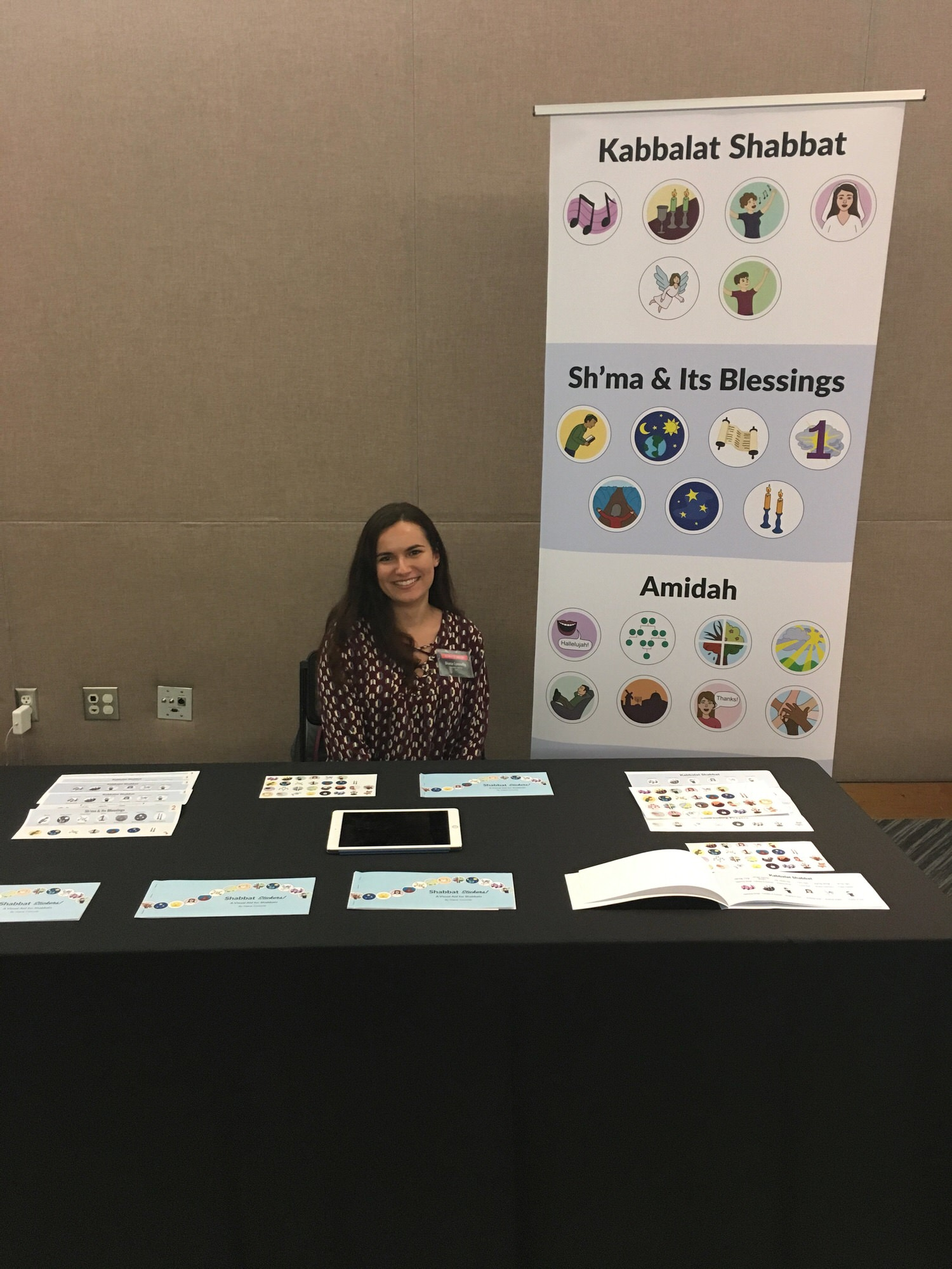
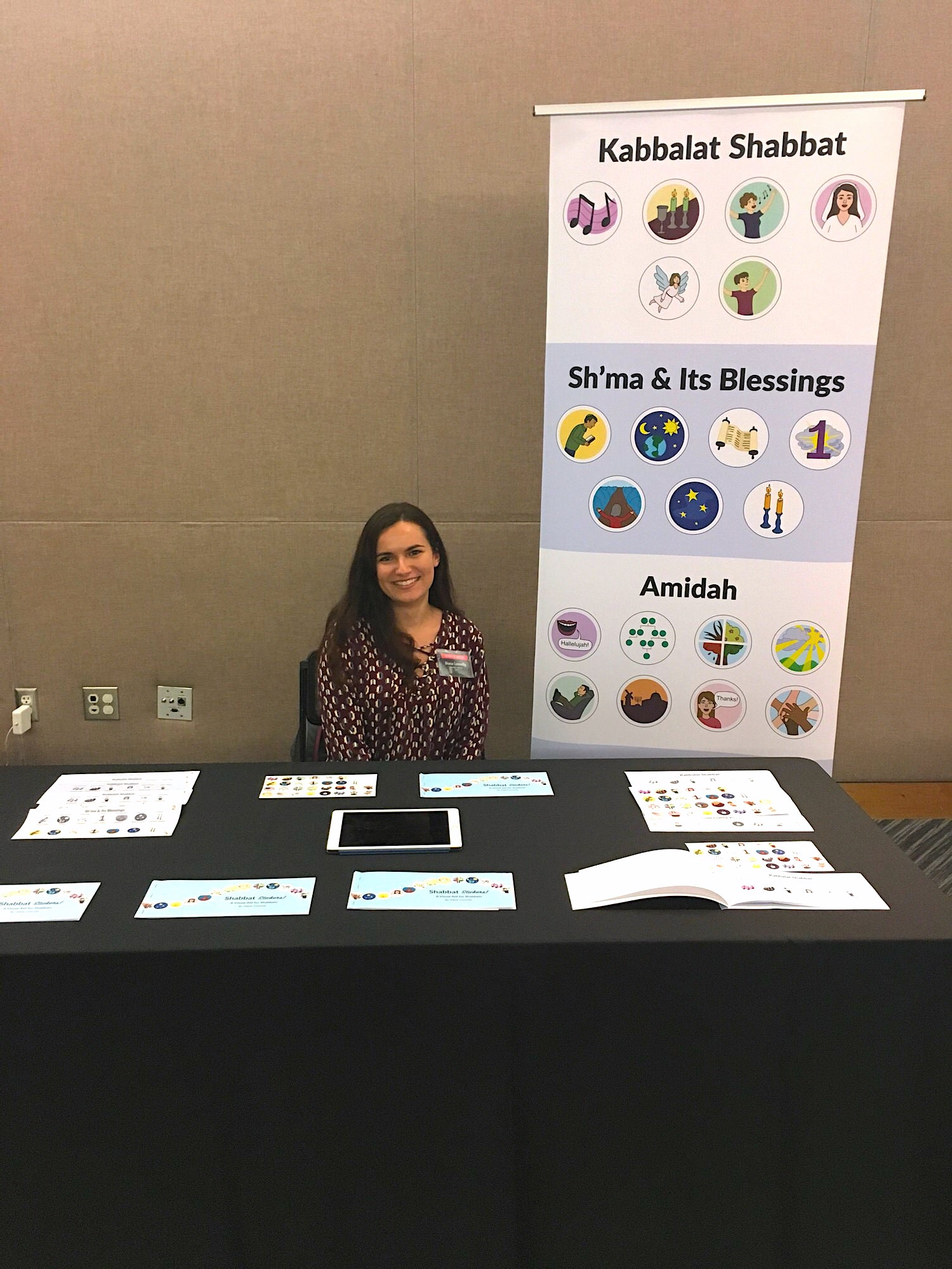
changed mps1 thumbnail

diff --git a/src/projects/projects.js b/src/projects/projects.js
@@ -489,73 +489,85 @@ export const projects = {
 //loops//
 
 	'dadMotorcycle': {
-		title: `Dad's Motorcycle`,
+		title: `"Dad's Motorcycle"`,
+		description: 'Adobe After Effects',
 		pic: `dadMotorcyclePurple.gif`,
 		page: dadMotorcycleGIF
 	},
 
 	'banana': {
-		title: `Healthy Food`,
+		title: `"Healthy Food"`,
+		description: 'Adobe After Effects',
 		pic: `banana.gif`,
 		page: jumoBanana
 	},
 
 	'heart': {
 		title: `Anatomical Valentine`,
+		description: 'Adobe After Effects',
 		pic: `heart.gif`,
 		page: anatomicalHeartGIF
 	},
 
 	'skulls': {
-		title: `I Have a Bone to Pick`,
+		title: `"I Have a Bone to Pick"`,
+		description: 'Adobe After Effects',
 		pic: `skulls-small.gif`,
 		page: expiiSkulls
 	},
 
 	'turkey': {
-		title: `Parading Around`,
+		title: `"Parading Around"`,
+		description: 'Adobe After Effects',
 		pic: `turkey-small.gif`,
 		page: expiiTurkey
 	},
 
 	'pumpkins': {
-		title: `Pumpkin Overload`,
+		title: `"Pumpkin Overload"`,
+		description: 'Adobe After Effects',
 		pic: `pumpkins-small.gif`,
 		page: expiiPumpkins
 	},
 
 	'clock': {
-		title: `Save the Day(light)`,
+		title: `"Save the Day(light)"`,
+		description: 'Adobe After Effects',
 		pic: `clock-small.gif`,
 		page: expiiDLS
 	},
 
 	'hanukkah': {
-		title: `Hanukkah Candles`,
+		title: `"Hanukkah Candles"`,
+		description: 'Adobe After Effects',
 		pic: `hanukkah-small.gif`,
 		page: expiiHannukah
 	},
 
 	'bFriday': {
-		title: `Discount Dash`,
+		title: `"Discount Dash"`,
+		description: 'Adobe After Effects',
 		pic: `bFriday-small.gif`,
 		page: expiiBlackFriday
 	},
 
 	'ornaments': {
-		title: `Weigh the Ornaments`,
+		title: `"Weigh the Ornaments"`,
+		description: 'Adobe After Effects',
 		pic: `ornaments-small.gif`,
 		page: expiiOrnaments
 	},
 
 	'ribbon': {
-		title: `Cut the Ribbon`,
+		title: `"Cut the Ribbon"`,
+		description: 'Adobe After Effects',
 		pic: `ribbon-small.gif`,
 		page: expiiRibbon
 	},
 
 	'NYE': {
-		title: `Drop the Ball`,
+		title: `"Drop the Ball"`,
+		description: 'Adobe After Effects',
 		pic: `NYE-small.gif`,
 		page: expiiNYE
 	},
@@ -909,14 +921,14 @@ export const projects = {
 //code//
 
 	'104bodyCards': {
-		title: `Mismatched`,
+		title: `"Mismatched"`,
 		description: `Randomized permutations of characters' cards with mouse click`,
 		pic: `104bodies.gif`,
 		page: codeBodyCards
 	},
 
 	'104city': {
-		title: `City Scape`,
+		title: `"City Scape"`,
 		description: `A city scene with randomized clouds, cars, and planes`,
 		pic: `codeCity.gif`,
 		page: codeCity
@@ -937,7 +949,7 @@ export const projects = {
 	},
 
 	'104eyes': {
-		title: `Raise to Wake`,
+		title: `"Raise to Wake"`,
 		description: `Wake your monster by raising the sun and lowering the moon`,
 		pic: `104eyes.gif`,
 		page: codeRaiseToWake
@@ -951,7 +963,7 @@ export const projects = {
 	},
 
 	'104flagMountains': {
-		title: `King of the Hill`,
+		title: `"King of the Hill"`,
 		description: `Randomized hill heights are evaluated for highest points, then marked by a flag at those points`, 
 		pic: `codeKingOfTheHill.gif`,
 		page: codeFlagMountains
@@ -979,7 +991,7 @@ export const projects = {
 	},
 
 	'104peaches': {
-		title: `Geometric Peaches`,
+		title: `"Geometric Peaches"`,
 		description: `Peaches that have a "cardioid" mathematical curve coded into their outlines, rotated with mouse location`, 
 		pic: `codePeaches.gif`,
 		page: codePeaches
@@ -1014,14 +1026,14 @@ export const projects = {
 	},
 
 	'104walkingMan': {
-		title: `Follower`,
+		title: `"Follower"`,
 		description: `A walk cycle character who follows where your mouse clicks`,
 		pic: `104walkCycle.gif`,
 		page: codeWalkingMan
 	},
 
 	'104yinAndYang': {
-		title: `Yin and Yang`,
+		title: `"Yin and Yang"`,
 		description: `Move your mouse to have yin and yang oppose each other like magnets`,
 		pic: `104oppositeBalls.gif`,
 		page: codeYinAndYang
@@ -1102,7 +1114,7 @@ export const projects = {
 	'infographics': {
 		title: `Infographics`,
 		description: `A collection of infographics on medical topics`,
-		pic: `mps1.jpg`,
+		pic: `mps1_v5.jpg`,
 		page: infographics
 	},
 

diff --git a/src/projects/pages/thesis.js b/src/projects/pages/thesis.js
@@ -223,8 +223,16 @@ export const Page = props => (
 
     <p> Throughout my schooling years, I discovered my interests in combining my two passions of art and science.
     This was a core theme of my thesis project, as my background education from my dual degree in Cognitive Neuroscience and Art helped me
-    to approach the goal of this project from both an artistic angle, understanding how visuals can impact audiences, as well as a 
-    psychological/biological angle, understanding the ways in which sensorial tools aid in attention and engagement of young and autistic audiences.</p>
+    to approach the goal of this project from both an artistic angle, understanding how visuals can impact audiences, as well as 
+    psychological and biological angles, understanding the ways in which sensorial tools aid in attention and engagement of young and autistic audiences. As mentioned above, the sticker book and icon banner evolved into very effective tools for helping to engage the target audience after implementing the data collected from the rounds of user feedback, and I am pleased with the results of this project.</p>
+
+    <div className="imgs max700">
+       
+        <div>
+            <img src={require('../assets/capstone/versions/capstonePresentation/2.jpeg')} />
+            <p>Presenting the project and its various progressing products at Carnegie Mellon's "Meeting of the Minds" 2017 event</p>
+        </div>
+    </div>
 
     {/* ==== EDIT ABOVE THIS LINE ==== */}
 
